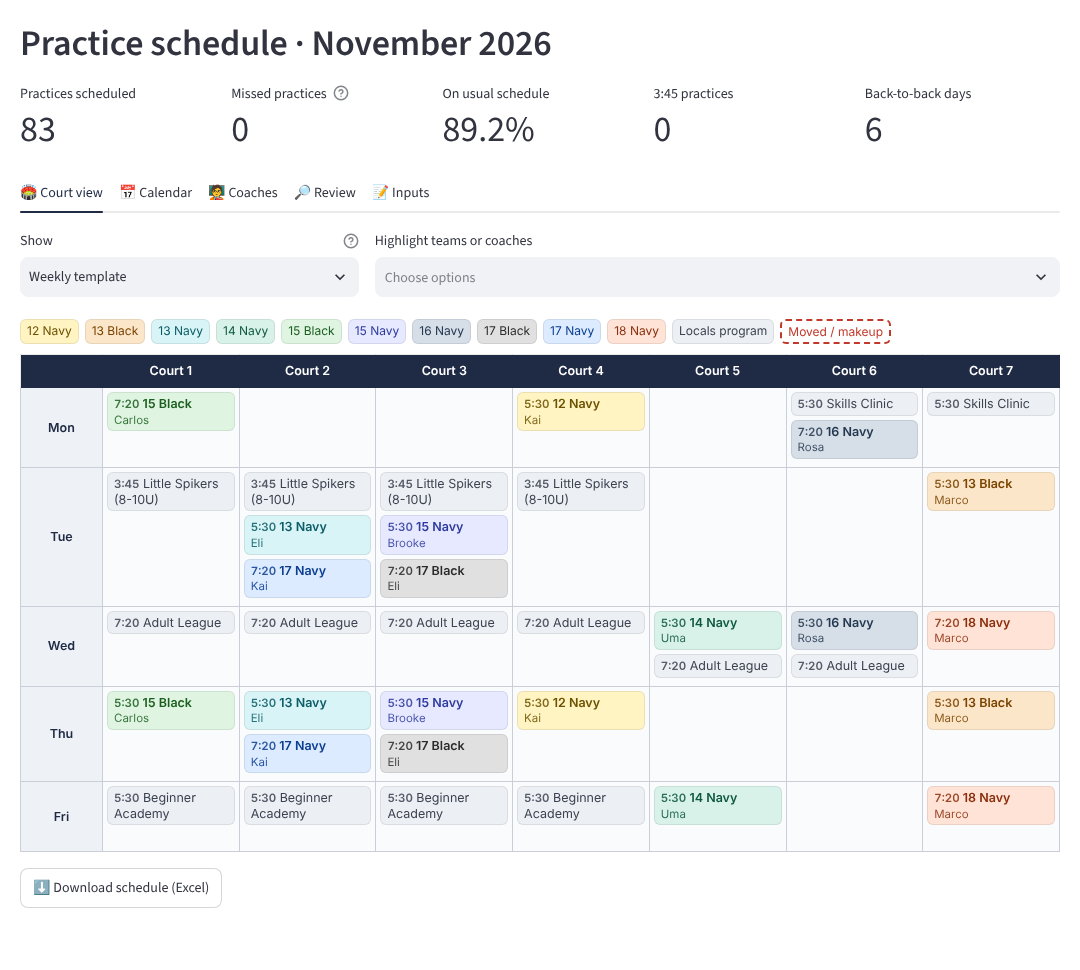
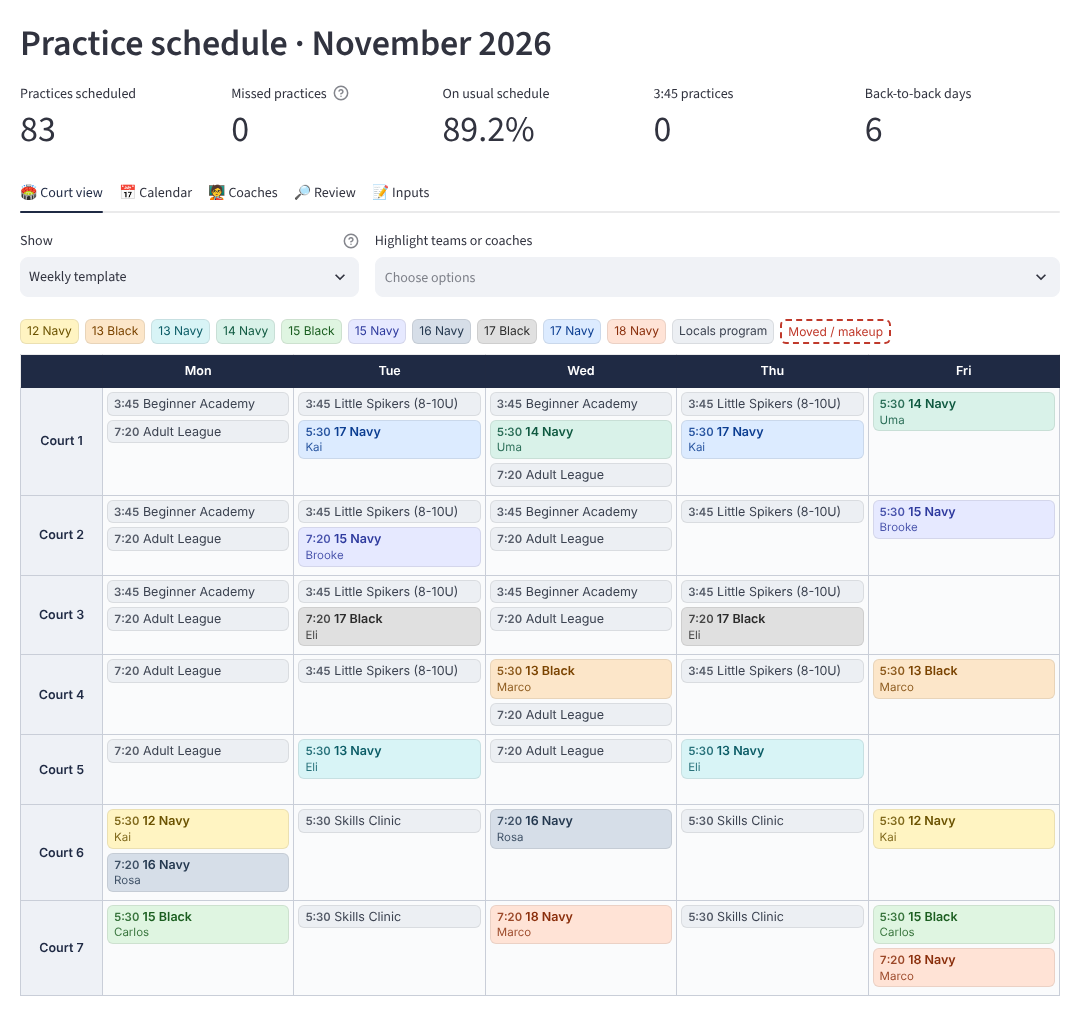
Flip court grid to courts-as-rows; locals can run on multiple days
- Court view and Excel export: courts as rows, weekdays as columns
- Locals sheet column is now "days" ("Tue, Thu", "Tue/Thu", "Tuesday and
  Thursday"); old single "day" column still reads
- Simulated locals run twice a week like the club's real programs
- Tests for multi-day locals and the legacy column

Claude-Session: https://claude.ai/code/session_011wNqCSKMct7SLgzaVgB7ok

diff --git a/scheduler/data.py b/scheduler/data.py
@@ -8,7 +8,7 @@ Sheets / columns
 Teams     : team, age, coach, priority (optional, 1-3)
 Coaches   : coach, email, preferred_days ("Mon, Wed"), preferred_slots ("5:30")
 NoDates   : coach, date, slot ("All" or 3:45 / 5:30 / 7:20), note
-Locals    : program, day, slot, courts ("1-3" or "1,2,5"), coaches ("Ana; Ben")
+Locals    : program, days ("Tue, Thu"), slot, courts ("1-3" or "1,2,5"), coaches ("Ana; Ben")
 Closures  : date, reason
 """
 
@@ -27,7 +27,7 @@ COLUMNS = {
     "Teams": ["team", "age", "coach", "priority"],
     "Coaches": ["coach", "email", "preferred_days", "preferred_slots"],
     "NoDates": ["coach", "date", "slot", "note"],
-    "Locals": ["program", "day", "slot", "courts", "coaches"],
+    "Locals": ["program", "days", "slot", "courts", "coaches"],
     "Closures": ["date", "reason"],
 }
 
@@ -66,6 +66,8 @@ class ScheduleInput:
         for sheet, cols in COLUMNS.items():
             df = xl.get(sheet, pd.DataFrame(columns=cols))
             df.columns = [str(c).strip().lower() for c in df.columns]
+            if sheet == "Locals" and "days" not in df.columns and "day" in df.columns:
+                df = df.rename(columns={"day": "days"})
             for c in cols:
                 if c not in df.columns:
                     df[c] = None
@@ -88,8 +90,9 @@ def parse_list(value, sep_pattern=r"[;,]") -> list[str]:
 
 
 def parse_days(value) -> list[str]:
+    """'Tue, Thu' / 'Tue/Thu' / 'Tue & Thu' / 'Tuesday and Thursday' -> ['Tue', 'Thu']."""
     out = []
-    for p in parse_list(value):
+    for p in parse_list(value, r"[;,/&]|\s+and\s+|\s+"):
         key = p[:3].title()
         if key in WEEKDAYS:
             out.append(key)
@@ -247,19 +250,17 @@ def clean(inp: ScheduleInput) -> CleanInput:
         if pd.isna(r["program"]):
             continue
         try:
-            day = parse_days(r["day"])
-            if len(day) != 1:
-                raise ValueError(f"day '{r['day']}' should be one weekday (Mon-Fri)")
+            days = parse_days(r["days"])
+            if not days:
+                raise ValueError(f"days '{r['days']}' should be weekdays like 'Tue, Thu'")
             slot = parse_slot(r["slot"])
             if slot is None:
                 raise ValueError("needs a timeslot")
-            locals_.append(LocalProgram(
-                name=str(r["program"]).strip(),
-                day=day[0],
-                slot=slot,
-                courts=parse_courts(r["courts"]),
-                coaches=parse_list(r.get("coaches")),
-            ))
+            courts = parse_courts(r["courts"])
+            staff = parse_list(r.get("coaches"))
+            # One entry per day the program runs (e.g. Tue and Thu).
+            for day in dict.fromkeys(days):
+                locals_.append(LocalProgram(str(r["program"]).strip(), day, slot, courts, staff))
         except (ValueError, TypeError) as e:
             errors.append(f"Locals row {i + 2} ({r['program']}): {e}")
 

diff --git a/scheduler/views.py b/scheduler/views.py
@@ -106,8 +106,8 @@ def court_grid_html(
     highlight: set[str] | None = None,
     colors: dict | None = None,
 ) -> str:
-    """Club layout: weekdays as rows, courts as columns, practices listed
-    with their times inside each day/court box.
+    """Club layout: courts as rows, weekdays as columns, practices listed
+    with their times inside each court/day box.
 
     `bookings` needs columns: day, slot, slot_label, court, kind, name, coach
     (and optionally on_pattern). `day_dates` maps Mon..Fri to a real date
@@ -115,22 +115,31 @@ def court_grid_html(
     """
     closures = closures or {}
     colors = colors or color_map(bookings.loc[bookings["kind"] == "Practice", "name"]) if len(bookings) else {}
-    out = [CSS, '<div class="cs-wrap"><table class="cs-grid"><thead><tr><th class="cs-day"></th>']
-    out += [f"<th>Court {c}</th>" for c in COURTS]
-    out.append("</tr></thead><tbody>")
+
+    # Days that are closed or outside the period become one shaded column.
+    blocked = {}
     for wd in WEEKDAYS:
         d = (day_dates or {}).get(wd)
-        sub = f"<small>{d:%b %-d}</small>" if d else ""
-        out.append(f'<tr><td class="cs-daycell">{wd}{sub}</td>')
         if d is not None and d in closures:
-            out.append(f'<td class="cs-closed" colspan="{len(COURTS)}">Closed: {html.escape(closures[d])}</td></tr>')
-            continue
-        if d is not None and d == date.min:  # outside the scheduled period
-            out.append(f'<td class="cs-closed" colspan="{len(COURTS)}">Outside this schedule period</td></tr>')
-            continue
-        day_rows = bookings[bookings["day"] == wd]
-        for c in COURTS:
-            cell = day_rows[day_rows["court"] == c].copy()
+            blocked[wd] = f"Closed: {html.escape(closures[d])}"
+        elif d is not None and d == date.min:
+            blocked[wd] = "Outside this schedule period"
+
+    out = [CSS, '<div class="cs-wrap"><table class="cs-grid"><thead><tr><th class="cs-day"></th>']
+    for wd in WEEKDAYS:
+        d = (day_dates or {}).get(wd)
+        sub = f'<br><small style="font-weight:400;opacity:.8">{d:%b %-d}</small>' if d and d != date.min else ""
+        out.append(f"<th>{wd}{sub}</th>")
+    out.append("</tr></thead><tbody>")
+    for i, c in enumerate(COURTS):
+        out.append(f'<tr><td class="cs-daycell">Court {c}</td>')
+        court_rows = bookings[bookings["court"] == c] if len(bookings) else bookings
+        for wd in WEEKDAYS:
+            if wd in blocked:
+                if i == 0:
+                    out.append(f'<td class="cs-closed" rowspan="{len(COURTS)}">{blocked[wd]}</td>')
+                continue
+            cell = court_rows[court_rows["day"] == wd].copy()
             cell["o"] = cell["slot"].map(SLOT_KEYS.index)
             chips = "".join(_chip(r, colors, highlight) for _, r in cell.sort_values("o").iterrows())
             out.append(f"<td>{chips}</td>")

diff --git a/scheduler/export.py b/scheduler/export.py
@@ -40,36 +40,36 @@ def _cell_text(rows: pd.DataFrame) -> str:
 
 
 def _grid_sheet(wb, title, bookings, day_labels, closed=None):
+    """Courts as rows, weekdays as columns."""
     ws = wb.create_sheet(title=title[:31])
     closed = closed or {}
-    ws.cell(1, 1, "")
-    for j, c in enumerate(COURTS, start=2):
-        cell = ws.cell(1, j, f"Court {c}")
+    ws.cell(1, 1, "").fill = _head
+    for j, wd in enumerate(WEEKDAYS, start=2):
+        cell = ws.cell(1, j, day_labels.get(wd, wd))
         cell.font, cell.fill = Font(bold=True, color="FFFFFF"), _head
-        cell.alignment = Alignment(horizontal="center")
-    ws.cell(1, 1).fill = _head
-    for i, wd in enumerate(WEEKDAYS, start=2):
-        dc = ws.cell(i, 1, day_labels.get(wd, wd))
-        dc.font, dc.fill, dc.border = Font(bold=True), _day, _border
-        dc.alignment = Alignment(horizontal="center", vertical="center", wrap_text=True)
-        day_rows = bookings[bookings["day"] == wd] if len(bookings) else bookings
+        cell.alignment = Alignment(horizontal="center", vertical="center", wrap_text=True)
+    ws.row_dimensions[1].height = 32 if day_labels else 18
+    for i, c in enumerate(COURTS, start=2):
+        rc = ws.cell(i, 1, f"Court {c}")
+        rc.font, rc.fill, rc.border = Font(bold=True), _day, _border
+        rc.alignment = Alignment(horizontal="center", vertical="center")
+        court_rows = bookings[bookings["court"] == c] if len(bookings) else bookings
         n_lines = 1
-        for j, c in enumerate(COURTS, start=2):
+        for j, wd in enumerate(WEEKDAYS, start=2):
             if wd in closed:
-                txt = closed[wd] if j == 2 else ""
-                cell = ws.cell(i, j, txt)
+                cell = ws.cell(i, j, closed[wd] if i == 2 else "")
                 cell.fill = _closed
             else:
-                rows = day_rows[day_rows["court"] == c] if len(day_rows) else day_rows
+                rows = court_rows[court_rows["day"] == wd] if len(court_rows) else court_rows
                 txt = _cell_text(rows) if len(rows) else ""
                 cell = ws.cell(i, j, txt)
                 n_lines = max(n_lines, txt.count("\n") + 1)
             cell.alignment = Alignment(vertical="top", wrap_text=True)
             cell.border = _border
         ws.row_dimensions[i].height = max(30, 15 * n_lines + 4)
-    ws.column_dimensions["A"].width = 12
-    for j in range(2, len(COURTS) + 2):
-        ws.column_dimensions[get_column_letter(j)].width = 26
+    ws.column_dimensions["A"].width = 10
+    for j in range(2, len(WEEKDAYS) + 2):
+        ws.column_dimensions[get_column_letter(j)].width = 30
     ws.freeze_panes = "B2"
     return ws
 

diff --git a/scheduler/simulate.py b/scheduler/simulate.py
@@ -24,12 +24,12 @@ FIRST_NAMES = [
 ]
 COLORS = ["Navy", "Black", "Teal", "White", "Gold", "Red"]
 
-LOCAL_TEMPLATES = [
-    ("Little Spikers (8-10U)", "Tue", "3:45", "1-4"),
-    ("Adult League", "Wed", "7:20", "1-6"),
-    ("Skills Clinic", "Mon", "5:30", "6-7"),
-    ("Beginner Academy", "Fri", "5:30", "1-4"),
-    ("Middle School Clinic", "Thu", "3:45", "1-3"),
+LOCAL_TEMPLATES = [  # most locals run twice a week
+    ("Little Spikers (8-10U)", "Tue, Thu", "3:45", "1-4"),
+    ("Adult League", "Mon, Wed", "7:20", "1-5"),
+    ("Skills Clinic", "Tue, Thu", "5:30", "6-7"),
+    ("Beginner Academy", "Mon, Wed", "3:45", "1-3"),
+    ("Middle School Clinic", "Fri", "3:45", "1-3"),
     ("Open Gym", "Fri", "7:20", "5-7"),
 ]
 
@@ -83,11 +83,11 @@ def simulate(
 
     # ---- locals: fixed weekly programs, worked by some coaches -------
     local_rows = []
-    for prog, day, slot, courts in LOCAL_TEMPLATES[:n_locals]:
+    for prog, days, slot, courts in LOCAL_TEMPLATES[:n_locals]:
         staff = rng.sample(coaches, k=min(len(coaches), rng.choice([1, 2])))
-        local_rows.append({"program": prog, "day": day, "slot": slot,
+        local_rows.append({"program": prog, "days": days, "slot": slot,
                            "courts": courts, "coaches": "; ".join(staff)})
-    locals_df = pd.DataFrame(local_rows, columns=["program", "day", "slot", "courts", "coaches"])
+    locals_df = pd.DataFrame(local_rows, columns=["program", "days", "slot", "courts", "coaches"])
 
     # ---- closures ----------------------------------------------------
     closures = pd.DataFrame(

diff --git a/app.py b/app.py
@@ -182,7 +182,11 @@ with tabs[2]:
         coach = st.selectbox("Coach", sorted(cleaned.coaches))
         prof = cleaned.coaches[coach]
         my_teams = [t.name for t in cleaned.teams if t.coach == coach]
-        my_locals = [f"{lp.name} ({lp.day} {lp.slot})" for lp in cleaned.locals if coach in lp.coaches]
+        grouped = {}
+        for lp in cleaned.locals:
+            if coach in lp.coaches:
+                grouped.setdefault((lp.name, lp.slot), []).append(lp.day)
+        my_locals = [f"{n} ({' & '.join(ds)} {sl})" for (n, sl), ds in grouped.items()]
         nds = sorted((d, s) for (c, d), s in cleaned.no_dates.items() if c == coach)
 
         c1, c2, c3 = st.columns(3)
@@ -235,7 +239,7 @@ with tabs[4]:
         "teams": ("Teams", "Priority 1-3 (3 = scheduled first if courts run out). Blank = by age."),
         "coaches": ("Coaches", "Preferred days like `Mon, Wed`; preferred times like `5:30, 7:20`."),
         "no_dates": ("No-dates", "Dates a coach can't make. Slot `All` blocks the whole day."),
-        "locals": ("Locals programs", "Fixed weekly programs. Courts like `1-4` or `1,3,5`; coaches separated by `;`."),
+        "locals": ("Locals programs", "Fixed weekly programs. Days like `Tue, Thu`; courts like `1-4` or `1,3,5`; coaches separated by `;`."),
         "closures": ("Closures", "Club closed. Prefilled with major US holidays."),
     }
     for attr, (title, help_) in labels.items():

diff --git a/tests/test_scheduler.py b/tests/test_scheduler.py
@@ -96,3 +96,30 @@ def test_excel_roundtrip():
     assert len(back.teams) == 6 and len(back.locals) == 3
     r = solve(back, date(2026, 11, 1), date(2026, 11, 30), time_limit_s=10)
     assert r.ok
+
+
+def test_locals_on_multiple_days_block_both_days():
+    from scheduler.data import parse_days
+    assert parse_days("Tue, Thu") == ["Tue", "Thu"]
+    assert parse_days("Tue/Thu") == ["Tue", "Thu"]
+    assert parse_days("Tuesday and Thursday") == ["Tue", "Thu"]
+
+    inp = simulate(10, 10, 0, 2026, 11, 7)
+    inp.locals = pd.DataFrame([{"program": "Clinic", "days": "Tue, Thu", "slot": "5:30",
+                                "courts": "1-7", "coaches": ""}])
+    r = solve(inp, inp.start, inp.end, time_limit_s=20)
+    pr = r.assignments[r.assignments["kind"] == "Practice"]
+    blocked = pr[pr["day"].isin(["Tue", "Thu"]) & (pr["slot"] == "5:30")]
+    assert blocked.empty
+    loc = r.assignments[r.assignments["kind"] == "Local"]
+    assert set(loc["day"]) == {"Tue", "Thu"}
+    _check_hard_rules(inp, r)
+
+
+def test_old_single_day_column_still_reads():
+    import io
+    from scheduler import ScheduleInput
+    inp = simulate(4, 4, 2, 2026, 11, 0)
+    inp.locals = inp.locals.rename(columns={"days": "day"})
+    back = ScheduleInput.from_excel(io.BytesIO(inp.to_excel_bytes()))
+    assert "days" in back.locals.columns and len(clean(back).locals) >= 2

diff --git a/README.md b/README.md
@@ -39,7 +39,7 @@ Closures default to the major family holidays: New Year's Day, July 4, Thanksgiv
 
 ## App
 
-- **Court view:** weekdays as rows and courts as columns, with each practice and its time in the box. You can view the recurring weekly template or any specific week, including makeups and closures.
+- **Court view:** courts as rows and weekdays as columns, with each practice and its time in the box. You can view the recurring weekly template or any specific week, including makeups and closures.
 - **Calendar:** a month view, filterable by team or coach.
 - **Coaches:** each coach's teams, locals, preferences, no-dates and full schedule, plus an `.ics` download for Google Calendar.
 - **Review:** everything that differs from the ideal schedule, with the reason.
@@ -55,7 +55,7 @@ One `.xlsx` with these sheets. Download a filled-in example from the app's sideb
 | Teams | `team`, `age`, `coach`, `priority` (optional 1–3; blank means by age) |
 | Coaches | `coach`, `email`, `preferred_days` (`Mon, Wed`), `preferred_slots` (`5:30, 7:20`) |
 | NoDates | `coach`, `date`, `slot` (`All`, or `3:45` / `5:30` / `7:20`), `note` |
-| Locals | `program`, `day`, `slot`, `courts` (`1-4` or `1,3,5`), `coaches` (`Ana; Ben`) |
+| Locals | `program`, `days` (`Tue, Thu`), `slot`, `courts` (`1-4` or `1,3,5`), `coaches` (`Ana; Ben`) |
 | Closures | `date`, `reason` (optional; defaults to major holidays) |
 
 > **Privacy:** real coach and team data should never be committed. `.gitignore` excludes everything in `data/` except the simulated sample.
